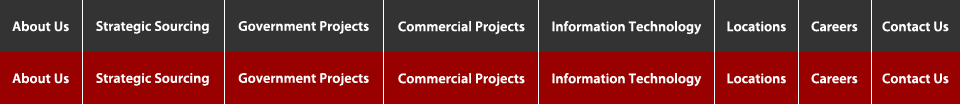
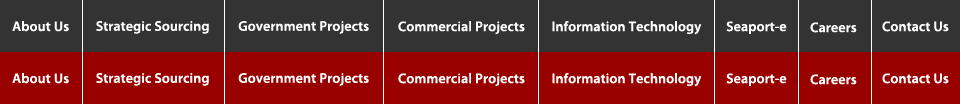
Replaced 'locations' in the header links with 'Seaport-e'

Changed region(s): [[0.75, 0.6923, 0.9062, 0.8365], [0.75, 0.2019, 0.9062, 0.3173]]

diff --git a/static/stylesheets/base.css b/static/stylesheets/base.css
@@ -213,7 +213,7 @@ background-color:maroon;
 #government-projects { width:171px; }
 #commercial-projects { width:171px; }
 #information-technology { width:183px; }
-#locations { width:149px; }
+#seaport-e { width:149px; }
 */
 
 #nav div {
@@ -267,11 +267,11 @@ background-position:-539px 0px;
 background-position:-539px -52px;
 }
 
-#locations img {
+#seaport-e img {
 width:84px;
 background-position:-715px 0px;
 }
-#locations img:hover {
+#seaport-e img:hover {
 background-position:-715px -52px;
 }
 

diff --git a/app/urls.py b/app/urls.py
@@ -13,7 +13,6 @@ main = [
   { 'uri':'government-projects',    'url':'/government-projects',     'template':'government-projects.html',    'title':'Government Projects' },
   { 'uri':'commercial-projects',    'url':'/commercial-projects',     'template':'commercial-projects.html',    'title':'Commercial Projects' },
   { 'uri':'information-technology', 'url':'/information-technology',  'template':'information-technology.html', 'title':'Information Technology' },
-  { 'uri':'locations',              'url':'/locations',               'template':'locations.html',              'title':'Locations' },
   { 'uri':'seaport-e',              'url':'/seaport-e',               'template':'seaport-e.html',              'title':'Seaport Enhanced' },
   { 'uri':'careers',                'url':'/careers',                 'template':'careers.html',                'title':'Careers' },
   { 'uri':'contact-us',             'url':'/contact-us',              'template':'contact-us.html',             'title':'Contact Us' }
